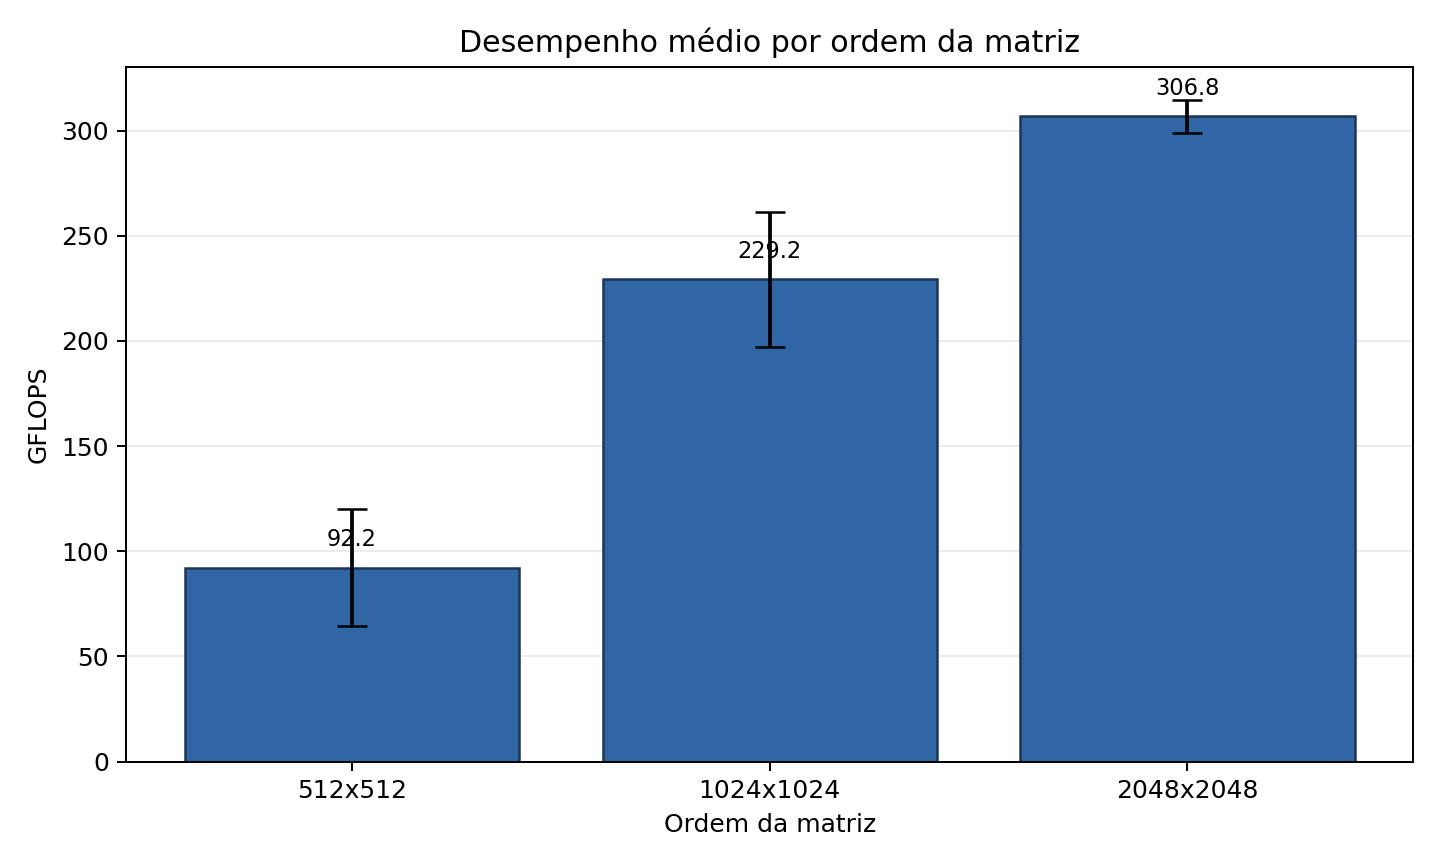
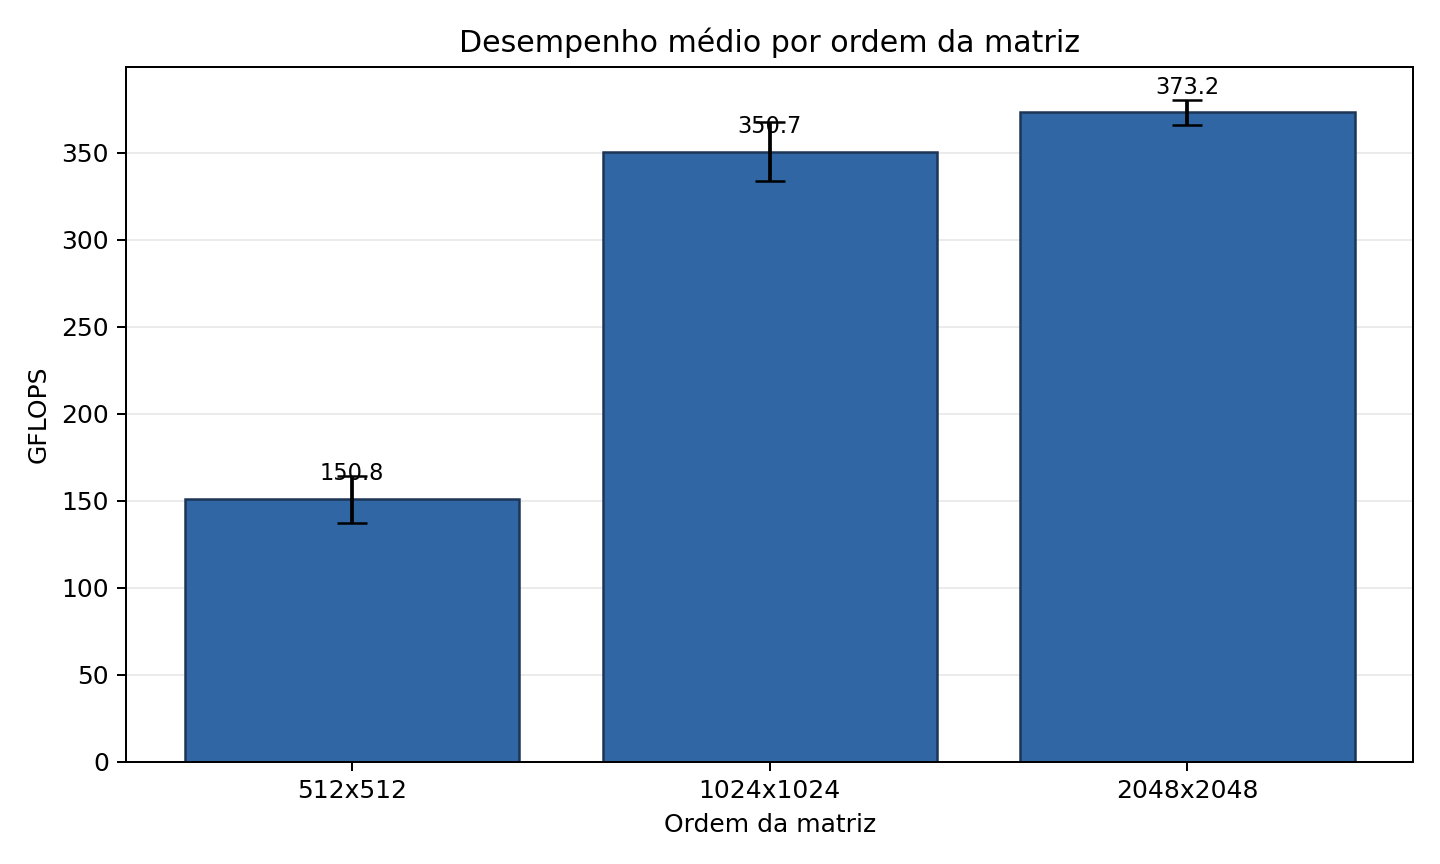
Atualizacoes nos experimentos e resultados

diff --git a/experiments/analisar_benchmark_matriz.py b/experiments/analisar_benchmark_matriz.py
@@ -12,10 +12,12 @@ import matplotlib
 
 matplotlib.use("Agg")
 import matplotlib.pyplot as plt
+from scipy import stats
 
 
 INPUT = ROOT / "data" / "benchmark_matriz_numpy.csv"
 SUMMARY = ROOT / "data" / "benchmark_matriz_resumo.csv"
+TESTS = ROOT / "data" / "benchmark_matriz_testes.csv"
 FIGURE = ROOT / "paper" / "figures" / "benchmark-gflops.png"
 
 
@@ -31,17 +33,44 @@ def summarize(rows: list[dict[str, str]]) -> list[dict[str, str]]:
         group = [row for row in rows if int(row["size"]) == size]
         elapsed = [float(row["elapsed_seconds"]) for row in group]
         gflops = [float(row["estimated_gflops"]) for row in group]
+        n = len(group)
+        t_critical = stats.t.ppf(0.975, df=n - 1)
+        gflops_ci95 = t_critical * statistics.stdev(gflops) / (n**0.5)
+        elapsed_ci95 = t_critical * statistics.stdev(elapsed) / (n**0.5)
         summary.append(
             {
                 "size": str(size),
-                "repetitions": str(len(group)),
+                "repetitions": str(n),
+                "warmups_discarded": group[0].get("warmups_discarded", "0"),
                 "elapsed_mean_seconds": f"{statistics.mean(elapsed):.6f}",
                 "elapsed_stdev_seconds": f"{statistics.stdev(elapsed):.6f}",
+                "elapsed_ci95_seconds": f"{elapsed_ci95:.6f}",
                 "gflops_mean": f"{statistics.mean(gflops):.3f}",
                 "gflops_stdev": f"{statistics.stdev(gflops):.3f}",
+                "gflops_ci95": f"{gflops_ci95:.3f}",
             }
         )
     return summary
+
+
+def hypothesis_tests(rows: list[dict[str, str]]) -> list[dict[str, str]]:
+    tests: list[dict[str, str]] = []
+    sizes = sorted({int(row["size"]) for row in rows})
+    for left, right in zip(sizes, sizes[1:]):
+        left_values = [float(row["estimated_gflops"]) for row in rows if int(row["size"]) == left]
+        right_values = [float(row["estimated_gflops"]) for row in rows if int(row["size"]) == right]
+        result = stats.ttest_ind(left_values, right_values, equal_var=False)
+        tests.append(
+            {
+                "comparison": f"{left}_vs_{right}",
+                "test": "Welch t-test",
+                "statistic": f"{result.statistic:.6f}",
+                "p_value": f"{result.pvalue:.6e}",
+                "alpha": "0.05",
+                "reject_h0": str(result.pvalue < 0.05),
+            }
+        )
+    return tests
 
 
 def write_summary(rows: list[dict[str, str]]) -> None:
@@ -52,11 +81,25 @@ def write_summary(rows: list[dict[str, str]]) -> None:
             fieldnames=[
                 "size",
                 "repetitions",
+                "warmups_discarded",
                 "elapsed_mean_seconds",
                 "elapsed_stdev_seconds",
+                "elapsed_ci95_seconds",
                 "gflops_mean",
                 "gflops_stdev",
+                "gflops_ci95",
             ],
+        )
+        writer.writeheader()
+        writer.writerows(rows)
+
+
+def write_tests(rows: list[dict[str, str]]) -> None:
+    TESTS.parent.mkdir(parents=True, exist_ok=True)
+    with TESTS.open("w", encoding="utf-8", newline="") as file:
+        writer = csv.DictWriter(
+            file,
+            fieldnames=["comparison", "test", "statistic", "p_value", "alpha", "reject_h0"],
         )
         writer.writeheader()
         writer.writerows(rows)
@@ -66,10 +109,10 @@ def draw_chart(rows: list[dict[str, str]]) -> None:
     FIGURE.parent.mkdir(parents=True, exist_ok=True)
     labels = [f"{row['size']}x{row['size']}" for row in rows]
     means = [float(row["gflops_mean"]) for row in rows]
-    stdevs = [float(row["gflops_stdev"]) for row in rows]
+    errors = [float(row["gflops_ci95"]) for row in rows]
 
     fig, ax = plt.subplots(figsize=(8, 4.8), dpi=180)
-    bars = ax.bar(labels, means, yerr=stdevs, capsize=6, color="#2f66a3", edgecolor="#1d3557")
+    bars = ax.bar(labels, means, yerr=errors, capsize=6, color="#2f66a3", edgecolor="#1d3557")
 
     ax.set_title("Desempenho médio por ordem da matriz")
     ax.set_xlabel("Ordem da matriz")
@@ -93,10 +136,14 @@ def draw_chart(rows: list[dict[str, str]]) -> None:
 
 
 def main() -> None:
-    rows = summarize(load_rows())
+    raw_rows = load_rows()
+    rows = summarize(raw_rows)
+    tests = hypothesis_tests(raw_rows)
     write_summary(rows)
+    write_tests(tests)
     draw_chart(rows)
     print(f"Resumo gerado: {SUMMARY}")
+    print(f"Testes gerados: {TESTS}")
     print(f"Figura gerada: {FIGURE}")
 
 

diff --git a/paper/sections/05-resultados.tex b/paper/sections/05-resultados.tex
@@ -35,8 +35,8 @@ CPU & Intel Core i7-1360P, 12 núcleos e 16 threads \\
 Memória RAM & 32 GB \\
 GPU & Intel Iris Xe Graphics integrada \\
 Armazenamento & NVMe KIOXIA 1024 GB \\
-Sistema operacional & Windows 11 Pro 64 bits \\
-Ferramentas de medição & Python 3.11.9 e NumPy 2.1.2 \\
+Sistema operacional & Windows 11 Pro 10.0.26200, 64 bits \\
+Ferramentas de medição & Python 3.11.9, NumPy 2.1.2, SciPy 1.14.1 \\
 Carga experimental & Multiplicação de matrizes \textit{float32} \\
 \bottomrule
 \end{tabular}
@@ -48,11 +48,25 @@ Carga experimental & Multiplicação de matrizes \textit{float32} \\
 \label{tab:benchmark-matriz}
 \begin{tabular}{rrrrr}
 \toprule
-\textbf{Ordem} & \textbf{Repetições} & \textbf{Tempo médio (s)} & \textbf{GFLOPS médio} & \textbf{Desvio GFLOPS} \\
+\textbf{Ordem} & \textbf{n} & \textbf{Tempo médio (s)} & \textbf{GFLOPS médio} & \textbf{IC95 GFLOPS} \\
 \midrule
-512 & 3 & 0,003135 & 92,227 & 27,653 \\
-1024 & 3 & 0,009491 & 229,243 & 32,185 \\
-2048 & 3 & 0,056025 & 306,783 & 8,005 \\
+512 & 30 & 0,001895 & 150,768 $\pm$ 36,307 & $\pm$ 13,557 \\
+1024 & 30 & 0,006228 & 350,665 $\pm$ 45,840 & $\pm$ 17,117 \\
+2048 & 30 & 0,046165 & 373,168 $\pm$ 19,745 & $\pm$ 7,373 \\
+\bottomrule
+\end{tabular}
+\end{table}
+
+\begin{table}[ht]
+\centering
+\caption{Testes de hipótese entre condições adjacentes}
+\label{tab:testes}
+\begin{tabular}{lrrr}
+\toprule
+\textbf{Comparação} & \textbf{Teste} & \textbf{p-valor} & \textbf{Rejeita $H_0$?} \\
+\midrule
+512 vs. 1024 & Welch $t$ & $1{,}48 \times 10^{-25}$ & Sim \\
+1024 vs. 2048 & Welch $t$ & 0,017966 & Sim \\
 \bottomrule
 \end{tabular}
 \end{table}
@@ -60,8 +74,8 @@ Carga experimental & Multiplicação de matrizes \textit{float32} \\
 \begin{figure}[ht]
 \centering
 \includegraphics[width=.85\textwidth]{figures/benchmark-gflops.png}
-\caption{Desempenho médio em GFLOPS para cada ordem de matriz avaliada.}
+\caption{Desempenho médio em GFLOPS para cada ordem de matriz avaliada, com barras de erro representando IC95.}
 \label{fig:benchmark-gflops}
 \end{figure}
 
-Os resultados indicam aumento da taxa estimada de GFLOPS conforme a ordem da matriz cresce, o que sugere melhor aproveitamento da biblioteca numérica em matrizes maiores. Como a GPU integrada não foi utilizada diretamente pelo benchmark, os valores representam uma medição inicial em CPU e servem como linha de base para comparações futuras com aceleração por GPU ou execução em infraestrutura HPC.
+Os resultados indicam aumento da taxa estimada de GFLOPS conforme a ordem da matriz cresce, o que sugere melhor aproveitamento da biblioteca numérica em matrizes maiores. Os testes de hipótese indicaram diferença estatisticamente significativa entre as condições adjacentes avaliadas. Como a GPU integrada não foi utilizada diretamente pelo benchmark, os valores representam uma medição inicial em CPU e servem como linha de base para comparações futuras com aceleração por GPU ou execução em infraestrutura HPC.

diff --git a/paper/main.tex b/paper/main.tex
@@ -10,13 +10,13 @@
 
 \sloppy
 
-\title{Análise de Desempenho de Cargas Matriciais para IA Generativa em Ambiente Computacional Local}
+\title{Benchmark Reprodutível de Cargas Matriciais para IA Generativa em CPU Local}
 
-\author{Nome do Autor 1\inst{1}, Nome do Autor 2\inst{1}, Nome do Autor 3\inst{1}}
+\author{Beatriz Galindo\inst{1}, Breno Santiago\inst{1}, Victor Paz\inst{1}}
 
-\address{Instituição de Ensino -- Curso/Departamento\\
-  Cidade -- Estado -- Brasil
-  \email{\{autor1,autor2,autor3\}@email.com}
+\address{CESAR School -- Ciência da Computação\\
+  Recife -- Pernambuco -- Brasil
+  \email{}
 }
 
 \begin{document}
@@ -24,12 +24,14 @@
 \maketitle
 
 \begin{abstract}
-Generative AI systems rely heavily on matrix and tensor operations, which makes hardware performance an important factor even in small-scale experiments. This paper evaluates a local computing environment through a reproducible matrix multiplication benchmark implemented in Python 3.11.9 with NumPy 2.1.2. The evaluated machine uses an Intel Core i7-1360P processor, 32 GB of RAM, NVMe storage, and integrated Intel Iris Xe graphics. Dense float32 matrices of orders 512, 1024, and 2048 were executed with three repetitions per size. The average estimated performance increased from 92.227 GFLOPS to 306.783 GFLOPS as the matrix size grew. The results do not represent a full generative model execution, but provide a practical baseline for discussing the relationship between local hardware infrastructure, numerical workloads, and introductory high-performance computing concepts.
+Generative AI systems rely heavily on matrix and tensor operations, which makes hardware performance an important factor even in small-scale experiments. This paper evaluates a local computing environment through a reproducible matrix multiplication benchmark implemented in Python 3.11.9 with NumPy 2.1.2. The evaluated machine uses an Intel Core i7-1360P processor, 32 GB of RAM, NVMe storage, and integrated Intel Iris Xe graphics. Dense float32 matrices of orders 512, 1024, and 2048 were executed with 30 valid repetitions per size after discarding five warm-up executions. The average estimated performance increased from 150.768 GFLOPS to 373.168 GFLOPS as the matrix size grew. The results do not represent a full generative model execution, but provide a practical baseline for discussing the relationship between local hardware infrastructure, numerical workloads, and introductory high-performance computing concepts.
 \end{abstract}
 
 \begin{resumo}
-Sistemas de IA generativa dependem fortemente de operações matriciais e tensoriais, o que torna o desempenho da infraestrutura de hardware um fator relevante mesmo em experimentos de pequena escala. Este artigo avalia um ambiente computacional local por meio de um benchmark reprodutível de multiplicação de matrizes implementado em Python 3.11.9 com NumPy 2.1.2. A máquina avaliada utiliza processador Intel Core i7-1360P, 32 GB de RAM, armazenamento NVMe e GPU integrada Intel Iris Xe. Foram executadas matrizes densas em \textit{float32} de ordens 512, 1024 e 2048, com três repetições por tamanho. O desempenho médio estimado cresceu de 92,227 GFLOPS para 306,783 GFLOPS conforme o tamanho da matriz aumentou. Os resultados não representam a execução de um modelo generativo completo, mas fornecem uma linha de base prática para discutir a relação entre infraestrutura local de hardware, cargas numéricas e conceitos introdutórios de computação de alto desempenho.
+Sistemas de IA generativa dependem fortemente de operações matriciais e tensoriais, o que torna o desempenho da infraestrutura de hardware um fator relevante mesmo em experimentos de pequena escala. Este artigo avalia um ambiente computacional local por meio de um benchmark reprodutível de multiplicação de matrizes implementado em Python 3.11.9 com NumPy 2.1.2. A máquina avaliada utiliza processador Intel Core i7-1360P, 32 GB de RAM, armazenamento NVMe e GPU integrada Intel Iris Xe. Foram executadas matrizes densas em \textit{float32} de ordens 512, 1024 e 2048, com 30 repetições válidas por tamanho após descarte de cinco execuções de aquecimento. O desempenho médio estimado cresceu de 150,768 GFLOPS para 373,168 GFLOPS conforme o tamanho da matriz aumentou. Os resultados não representam a execução de um modelo generativo completo, mas fornecem uma linha de base prática para discutir a relação entre infraestrutura local de hardware, cargas numéricas e conceitos introdutórios de computação de alto desempenho.
 \end{resumo}
+
+\noindent\textbf{Palavras-chave:} IA generativa; HPC; multiplicação de matrizes; benchmark; infraestrutura de hardware.
 
 \input{sections/01-introducao}
 \input{sections/02-fundamentacao}

diff --git a/experiments/benchmark_matriz_numpy.py b/experiments/benchmark_matriz_numpy.py
@@ -12,10 +12,13 @@ ROOT = Path(__file__).resolve().parents[1]
 OUT = ROOT / "data" / "benchmark_matriz_numpy.csv"
 
 
-def benchmark(size: int, repetitions: int = 3) -> list[dict[str, str]]:
+def benchmark(size: int, repetitions: int = 30, warmups: int = 5) -> list[dict[str, str]]:
     rng = np.random.default_rng(42)
     a = rng.random((size, size), dtype=np.float32)
     b = rng.random((size, size), dtype=np.float32)
+
+    for _ in range(warmups):
+        _ = a @ b
 
     rows: list[dict[str, str]] = []
     for rep in range(1, repetitions + 1):
@@ -29,6 +32,7 @@ def benchmark(size: int, repetitions: int = 3) -> list[dict[str, str]]:
             {
                 "size": str(size),
                 "repetition": str(rep),
+                "warmups_discarded": str(warmups),
                 "elapsed_seconds": f"{elapsed:.6f}",
                 "estimated_gflops": f"{gflops:.3f}",
                 "checksum": f"{float(c[0, 0]):.6f}",
@@ -49,6 +53,7 @@ def main() -> None:
             fieldnames=[
                 "size",
                 "repetition",
+                "warmups_discarded",
                 "elapsed_seconds",
                 "estimated_gflops",
                 "checksum",
@@ -60,6 +65,8 @@ def main() -> None:
     print(f"Arquivo gerado: {OUT}")
     print(f"Python: {platform.python_version()}")
     print(f"NumPy: {np.__version__}")
+    print("Repetições válidas por tamanho: 30")
+    print("Warm-ups descartados por tamanho: 5")
 
 
 if __name__ == "__main__":

diff --git a/paper/sections/04-metodologia.tex b/paper/sections/04-metodologia.tex
@@ -17,10 +17,12 @@ Durante a coleta, mediu-se o tempo de execução de cada multiplicação de matr
 
 As métricas foram organizadas em dois grupos. O primeiro descreve o ambiente, incluindo componentes físicos, sistema operacional e ferramentas. O segundo descreve o comportamento da carga durante a execução, incluindo tempo total, média de GFLOPS e desvio padrão entre repetições.
 
-Foram executadas matrizes de ordem 512, 1024 e 2048, com três repetições para cada tamanho. A taxa estimada de desempenho foi calculada pela aproximação $2n^3/t$, em que $n$ é a ordem da matriz e $t$ é o tempo de execução em segundos. O script de execução utiliza semente pseudoaleatória fixa, de modo que as matrizes geradas possam ser reproduzidas.
+Foram executadas matrizes de ordem 512, 1024 e 2048, com 30 repetições válidas para cada tamanho. Antes das medições, cinco execuções de aquecimento foram descartadas para reduzir o efeito de inicialização da biblioteca numérica e do ambiente de execução. A taxa estimada de desempenho foi calculada pela aproximação $2n^3/t$, em que $n$ é a ordem da matriz e $t$ é o tempo de execução em segundos. O script de execução utiliza semente pseudoaleatória fixa, de modo que as matrizes geradas possam ser reproduzidas.
+
+Durante os testes, a mesma máquina, o mesmo sistema operacional e as mesmas versões de Python e bibliotecas foram mantidos. Não foram executadas comparações em paralelo com outras cargas intencionais. Ainda assim, por se tratar de um sistema operacional de uso geral, processos em segundo plano, política de energia, uso de swap e variações térmicas não foram controlados com o mesmo rigor de um ambiente de laboratório dedicado.
 
 \subsection{Critérios de análise}
 
 Por fim, os dados foram organizados em tabelas e analisados com foco na identificação de tendências de desempenho. A análise buscou relacionar os resultados às características da infraestrutura e aos conceitos de HPC discutidos na fundamentação teórica.
 
-Como apenas uma configuração experimental foi avaliada, a análise teve caráter descritivo. O arquivo bruto \texttt{data/benchmark\_matriz\_numpy.csv} armazena as repetições individuais, enquanto \texttt{data/benchmark\_matriz\_resumo.csv} contém médias e desvios padrão. A figura apresentada nos resultados foi gerada pelo script \texttt{experiments/analisar\_benchmark\_matriz.py}.
+Como apenas uma configuração experimental foi avaliada, a análise teve caráter descritivo e comparou os tamanhos de matriz entre si. Foram calculados média, desvio padrão e intervalo de confiança de 95\% para cada condição. Também foi aplicado teste $t$ de Welch entre condições adjacentes, adotando $\alpha=0{,}05$. O arquivo bruto \texttt{data/benchmark\_matriz\_numpy.csv} armazena as repetições individuais, enquanto \texttt{data/benchmark\_matriz\_resumo.csv} contém médias, desvios padrão e intervalos de confiança. Os testes estatísticos foram registrados em \texttt{data/benchmark\_matriz\_testes.csv}.

diff --git a/paper/sections/06-discussao.tex b/paper/sections/06-discussao.tex
@@ -1,12 +1,12 @@
 \section{Discussão}
 \label{sec:discussao}
 
-Os resultados obtidos mostram que a taxa estimada de desempenho aumentou conforme a ordem das matrizes cresceu, como sintetizado na Figura~\ref{fig:benchmark-gflops}. Para matrizes de ordem 512, a média foi de 92,227 GFLOPS, enquanto para matrizes de ordem 2048 a média chegou a 306,783 GFLOPS. Esse comportamento sugere que operações maiores permitem melhor aproveitamento das rotinas otimizadas utilizadas pelo NumPy, reduzindo proporcionalmente o impacto de custos fixos de chamada, alocação e preparação dos dados.
+Os resultados obtidos mostram que a taxa estimada de desempenho aumentou conforme a ordem das matrizes cresceu, como sintetizado na Figura~\ref{fig:benchmark-gflops}. Para matrizes de ordem 512, a média foi de 150,768 GFLOPS, enquanto para matrizes de ordem 2048 a média chegou a 373,168 GFLOPS. Esse comportamento sugere que operações maiores permitem melhor aproveitamento das rotinas otimizadas utilizadas pelo NumPy, reduzindo proporcionalmente o impacto de custos fixos de chamada, alocação e preparação dos dados.
 
-A variação entre repetições também foi diferente conforme o tamanho da matriz. O desvio padrão foi maior nas ordens 512 e 1024, enquanto a matriz de ordem 2048 apresentou menor variação relativa. Uma interpretação possível é que execuções muito curtas ficam mais sensíveis a pequenas interferências do sistema operacional e do ambiente de execução, enquanto cargas maiores tendem a produzir medições mais estáveis.
+A variação entre repetições também foi diferente conforme o tamanho da matriz. O desvio padrão foi maior nas ordens 512 e 1024, enquanto a matriz de ordem 2048 apresentou menor variação relativa. Uma interpretação possível é que execuções muito curtas ficam mais sensíveis a pequenas interferências do sistema operacional e do ambiente de execução, enquanto cargas maiores tendem a produzir medições mais estáveis. Os testes $t$ de Welch indicaram diferenças estatisticamente significativas entre 512 e 1024, e entre 1024 e 2048, considerando $\alpha=0{,}05$.
 
 Embora o experimento não execute um modelo generativo completo, a multiplicação de matrizes é uma operação central em redes neurais modernas. Assim, o benchmark permite observar, em escala controlada, a relação entre carga computacional, biblioteca numérica e infraestrutura disponível. A máquina avaliada possui CPU Intel Core i7-1360P, 32 GB de RAM e GPU integrada Intel Iris Xe; porém, a execução realizada utilizou CPU, não aceleração explícita por GPU.
 
 A comparação com os dados de referência do NVIDIA DGX H100 evidencia a diferença de escala entre uma máquina local e uma infraestrutura especializada para IA. Enquanto o ambiente local oferece uma linha de base acessível para experimentação, sistemas dedicados combinam múltiplas GPUs, grande volume de memória de GPU, rede de alta velocidade e pilha de software otimizada. Essa diferença reforça que cargas reais de IA generativa em grande escala dependem de uma infraestrutura integrada, e não apenas de um processador isolado.
 
-As principais limitações do estudo são a execução em apenas uma máquina, o uso de um benchmark sintético e a ausência de medição direta de consumo energético, temperatura e utilização de GPU. Ainda assim, os dados coletados cumprem o objetivo de demonstrar uma metodologia inicial de avaliação técnica e fornecem uma base para experimentos futuros com modelos generativos reais, aceleração por GPU ou comparação entre diferentes ambientes computacionais.
+As principais limitações do estudo são a execução em apenas uma máquina, o uso de um benchmark sintético e a ausência de medição direta de consumo energético, temperatura e utilização de GPU. O estado do sistema operacional também não foi completamente isolado: processos em segundo plano, política de energia do Windows, uso de swap e variações térmicas não foram controlados de forma rígida. Ainda assim, os dados coletados cumprem o objetivo de demonstrar uma metodologia inicial de avaliação técnica e fornecem uma base para experimentos futuros com modelos generativos reais, aceleração por GPU ou comparação entre diferentes ambientes computacionais.

diff --git a/paper/sections/03-trabalhos-relacionados.tex b/paper/sections/03-trabalhos-relacionados.tex
@@ -1,8 +1,6 @@
 \section{Trabalhos Relacionados}
 \label{sec:relacionados}
 
-A literatura em arquitetura de computadores e HPC destaca a importância de avaliar sistemas de forma integrada, considerando processadores, memória, interconexões, armazenamento e aceleradores~\cite{hennessy2019golden}. Essa visão é útil para este artigo porque o desempenho observado em uma carga matricial não depende apenas do processador, mas também das bibliotecas numéricas e da forma como os dados são movimentados durante a execução.
-
 Trabalhos sobre benchmarks de HPC, como avaliações baseadas em LINPACK, mostram a relevância de métricas padronizadas para comparar sistemas~\cite{dongarra2003linpack}. Embora LINPACK não represente sozinho todas as cargas modernas, ele permanece relevante por medir desempenho em operações de álgebra linear, uma família de operações também presente em redes neurais.
 
 Um trabalho diretamente relacionado ao experimento deste artigo é o de Goto e van de Geijn~\cite{goto2008anatomy}, que discute como multiplicações de matrizes de alto desempenho dependem de bloqueio, uso eficiente de cache e movimentação de dados. Essa discussão ajuda a interpretar por que matrizes maiores podem apresentar melhor aproveitamento das rotinas numéricas: parte do desempenho vem menos da operação matemática isolada e mais da forma como a implementação organiza dados e instruções na arquitetura disponível.

diff --git a/paper/sections/07-conclusao.tex b/paper/sections/07-conclusao.tex
@@ -3,6 +3,6 @@
 
 Este artigo analisou a relação entre infraestrutura de hardware e cargas computacionais associadas à IA generativa em um contexto introdutório de HPC. A partir da caracterização de uma máquina local e da execução de um benchmark de multiplicação de matrizes com NumPy, foi possível observar o comportamento de uma operação fundamental para redes neurais modernas.
 
-Os resultados mostraram que o desempenho estimado cresceu de 92,227 GFLOPS, em matrizes de ordem 512, para 306,783 GFLOPS, em matrizes de ordem 2048. Esse comportamento indica que matrizes maiores tendem a aproveitar melhor as rotinas numéricas otimizadas, embora o experimento tenha sido limitado à execução em CPU. A comparação com dados documentados do NVIDIA DGX H100 evidenciou a diferença de escala entre uma máquina local e uma infraestrutura dedicada para IA e HPC.
+Os resultados mostraram que o desempenho estimado cresceu de 150,768 GFLOPS, em matrizes de ordem 512, para 373,168 GFLOPS, em matrizes de ordem 2048. Esse comportamento indica que matrizes maiores tendem a aproveitar melhor as rotinas numéricas otimizadas, embora o experimento tenha sido limitado à execução em CPU. A comparação com dados documentados do NVIDIA DGX H100 evidenciou a diferença de escala entre uma máquina local e uma infraestrutura dedicada para IA e HPC.
 
 Como contribuição, o trabalho apresenta uma metodologia reprodutível para caracterizar o ambiente, executar uma carga representativa e relacionar os resultados com conceitos de arquitetura de computadores e computação de alto desempenho. Como trabalhos futuros, pretende-se avaliar modelos generativos reais de pequeno porte, incluir medições de uso de memória e energia, explorar aceleração por GPU e comparar diferentes ambientes computacionais.

diff --git a/experiments/ambiente.md b/experiments/ambiente.md
@@ -27,7 +27,7 @@ Este arquivo registra o ambiente usado nos experimentos do artigo.
 |---|---|
 | Sistema operacional | Microsoft Windows 11 Pro 10.0.26200, 64 bits |
 | Linguagem/runtime | Python 3.11.9 |
-| Bibliotecas | NumPy 2.1.2; Matplotlib 3.10.9 |
+| Bibliotecas | NumPy 2.1.2; Matplotlib 3.10.9; SciPy 1.14.1 |
 | Ferramentas de medição | Scripts `experiments/benchmark_matriz_numpy.py` e `experiments/analisar_benchmark_matriz.py` |
 | Ferramenta de IA generativa | Não utilizada diretamente; carga matricial representativa |
 